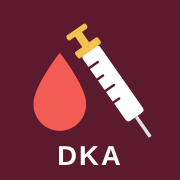
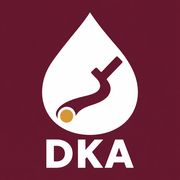
Add files via upload

Changed region(s): [[0.1667, 0.0556, 0.8611, 0.9444]]

diff --git a/index.html b/index.html
@@ -3,10 +3,10 @@
 <head>
 <meta charset="utf-8">
 <meta name="viewport" content="width=device-width, initial-scale=1, viewport-fit=cover">
-<title>DKA Pathway</title>
+<title>DKA Check</title>
 <meta name="description" content="Bedside DKA pathway: weight-based insulin rates, hourly titration, dextrose fluids and electrolyte replacement, with prompts for when to call.">
-<meta name="application-name" content="DKA Pathway">
-<meta name="apple-mobile-web-app-title" content="DKA Pathway">
+<meta name="application-name" content="DKA Check">
+<meta name="apple-mobile-web-app-title" content="DKA Check">
 <meta name="apple-mobile-web-app-capable" content="yes">
 <meta name="mobile-web-app-capable" content="yes">
 <meta name="apple-mobile-web-app-status-bar-style" content="black-translucent">
@@ -316,7 +316,7 @@ body.previewing #printSheet .pp { width: 7.6in; box-sizing: content-box; margin:
 <div class="wrap">
   <header class="bar">
     <img src="apple-touch-icon.png" alt="">
-    <div><h1>DKA Pathway</h1><p>Hourly insulin, fluids and lytes</p></div>
+    <div><h1>DKA Check</h1><p>Hourly insulin, fluids and lytes</p></div>
     <span class="spacer"></span>
     <button type="button" id="printBtn">Print</button>
     <button type="button" id="clearBtn">Clear</button>
@@ -501,7 +501,7 @@ body.previewing #printSheet .pp { width: 7.6in; box-sizing: content-box; margin:
     </ol>
   </section>
 
-  <p class="foot">The flags are prompts, not orders. The provider's orders and the pathway decide what changes. Nothing is sent anywhere. Your numbers and tracking rows stay on this device so a closed app doesn't lose them; Clear wipes them. Version 2026-11-01.22. <span id="offlineState"></span></p>
+  <p class="foot">The flags are prompts, not orders. The provider's orders and the pathway decide what changes. Nothing is sent anywhere. Your numbers and tracking rows stay on this device so a closed app doesn't lose them; Clear wipes them. Version 2026-11-01.24. <span id="offlineState"></span></p>
 </div>
 
 <div id="prevBar" role="toolbar" aria-label="Print preview">
@@ -950,7 +950,7 @@ body.previewing #printSheet .pp { width: 7.6in; box-sizing: content-box; margin:
     }).join("");
     for (var i = 0; i < blanks; i++) tr += '<tr><td></td><td></td><td></td><td></td><td></td><td></td><td class="cs">LR · D5 ½NS · D10 &nbsp;____</td><td></td></tr>';
     var p1 = '<div class="pp">' +
-      '<div class="phd"><h1>DKA ICU Pathway · Bedside tracking</h1><div class="wr">Date ' + wi("") + " &nbsp; Room " + wi("", "s") + "</div></div>" +
+      '<div class="phd"><h1>DKA Check · Bedside tracking</h1><div class="wr">Date ' + wi("") + " &nbsp; Room " + wi("", "s") + "</div></div>" +
       '<div class="prates"><span>Weight ' + wi(w !== null ? r1(w) : "", "s") + " kg</span><span>Table row " + wi(b >= 0 ? BANDS[b] + "–" + (BANDS[b] + 9) : "") + " kg</span>" +
       "<span>LR started " + wi($("ivfStart").value, "s") + "</span><span>K ≥3.3 before insulin: Y · N</span></div>" +
       '<div class="prates"><span>Start (0.1) ' + wi(r10 ? r1(r10.v) : "", "s") + " units/hr</span><span>BG ≤200 (0.05) " + wi(r05 ? r1(r05.v) : "", "s") + " units/hr</span>" +
@@ -1116,7 +1116,7 @@ body.previewing #printSheet .pp { width: 7.6in; box-sizing: content-box; margin:
   window.addEventListener("beforeprint", function () { document.querySelectorAll("#printSheet .pp").forEach(function (pg) { pg.style.zoom = ""; }); });
   window.addEventListener("afterprint", fitPreview);
   function sheetFile() {
-    return '<!doctype html><html lang="en"><head><meta charset="utf-8"><meta name="viewport" content="width=device-width, initial-scale=1"><title>DKA bedside sheet</title><style>' +
+    return '<!doctype html><html lang="en"><head><meta charset="utf-8"><meta name="viewport" content="width=device-width, initial-scale=1"><title>DKA Check bedside sheet</title><style>' +
       "@page{size:letter portrait;margin:0.45in}body{margin:0;background:#fff}.tip{font:14px/1.4 Arial,sans-serif;padding:10px 14px;background:#eee;margin:0}" +
       "@media screen{.sheet .pp{width:7.6in;margin:16px auto}}@media print{.tip{display:none}}" + $("sheetCss").textContent +
       '</style></head><body><p class="tip">To print: Ctrl+P (Cmd+P on a Mac), or Share → Print on a phone. Letter, portrait, scale 100%.</p><div class="sheet">' +
@@ -1125,7 +1125,7 @@ body.previewing #printSheet .pp { width: 7.6in; box-sizing: content-box; margin:
   function stamp() { var d = new Date(); return d.getFullYear() + "-" + String(d.getMonth() + 1).padStart(2, "0") + "-" + String(d.getDate()).padStart(2, "0") + " " + hhmm(d.getTime()); }
   function saveSheet() {
     buildPrint();
-    var name = "DKA bedside sheet " + stamp() + ".html", data = sheetFile();
+    var name = "DKA Check sheet " + stamp() + ".html", data = sheetFile();
     var viaBlob = function () {
       try {
         var url = URL.createObjectURL(new Blob([data], { type: "text/html" })), a = document.createElement("a");
@@ -1185,7 +1185,7 @@ body.previewing #printSheet .pp { width: 7.6in; box-sizing: content-box; margin:
     if (!("serviceWorker" in navigator)) { say("Offline use isn't available in this browser."); return; }
     say("Saving for offline use…");
     navigator.serviceWorker.register("sw.js").then(function () { return navigator.serviceWorker.ready; })
-      .then(function () { return caches.has("dka-pathway-2026-11-01.22"); })
+      .then(function () { return caches.has("dka-check-2026-11-01.24"); })
       .then(function (ok) { say(ok ? "Ready offline ✓" : "Saving for offline use… reopen the app in a few seconds."); })
       .catch(function () { say("Couldn't save for offline use. Open the app once more while online."); });
   })();

diff --git a/sw.js b/sw.js
@@ -1,5 +1,5 @@
-// DKA Pathway offline cache. Change VERSION whenever any file changes, so phones fetch the update.
-const VERSION = "dka-pathway-2026-11-01.22";
+// DKA Check offline cache. Change VERSION whenever any file changes, so phones fetch the update.
+const VERSION = "dka-check-2026-11-01.24";
 const FILES = [
   "./",
   "index.html",

diff --git a/README.md b/README.md
@@ -1,4 +1,4 @@
-# DKA Pathway
+# DKA Check
 
 A bedside DKA pathway for ICU nurses: weight-based insulin rates, hourly titration, dextrose fluid changes and K, Mg and Phos replacement, with prompts for when to call the provider or pharmacy.
 
